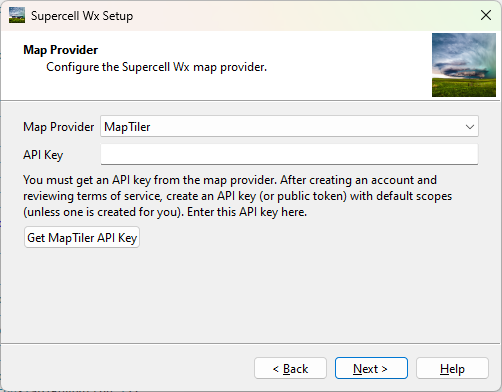
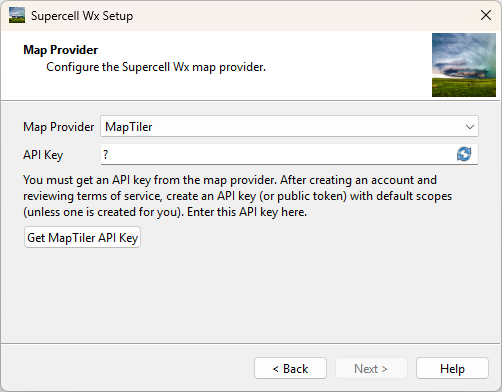
Update initial setup dialog with map API key validation

diff --git a/getting-started/initial-setup.rst b/getting-started/initial-setup.rst
@@ -88,7 +88,8 @@ The Map Provider page displays first. Here, a map API key must be configured,
 using either `MapTiler <https://www.maptiler.com/>`_ or `Mapbox
 <https://www.mapbox.com/>`_ (specify the desired map provider). After creating
 an account and reviewing terms of service, create an API key (or public token)
-with default scopes (unless one is created for you).
+with default scopes (unless one is created for you). Click the button at the
+right side of the API Key input box to validate your API Key.
 
 .. image:: images/initial-setup-06-wizard-map-provider.png
 
